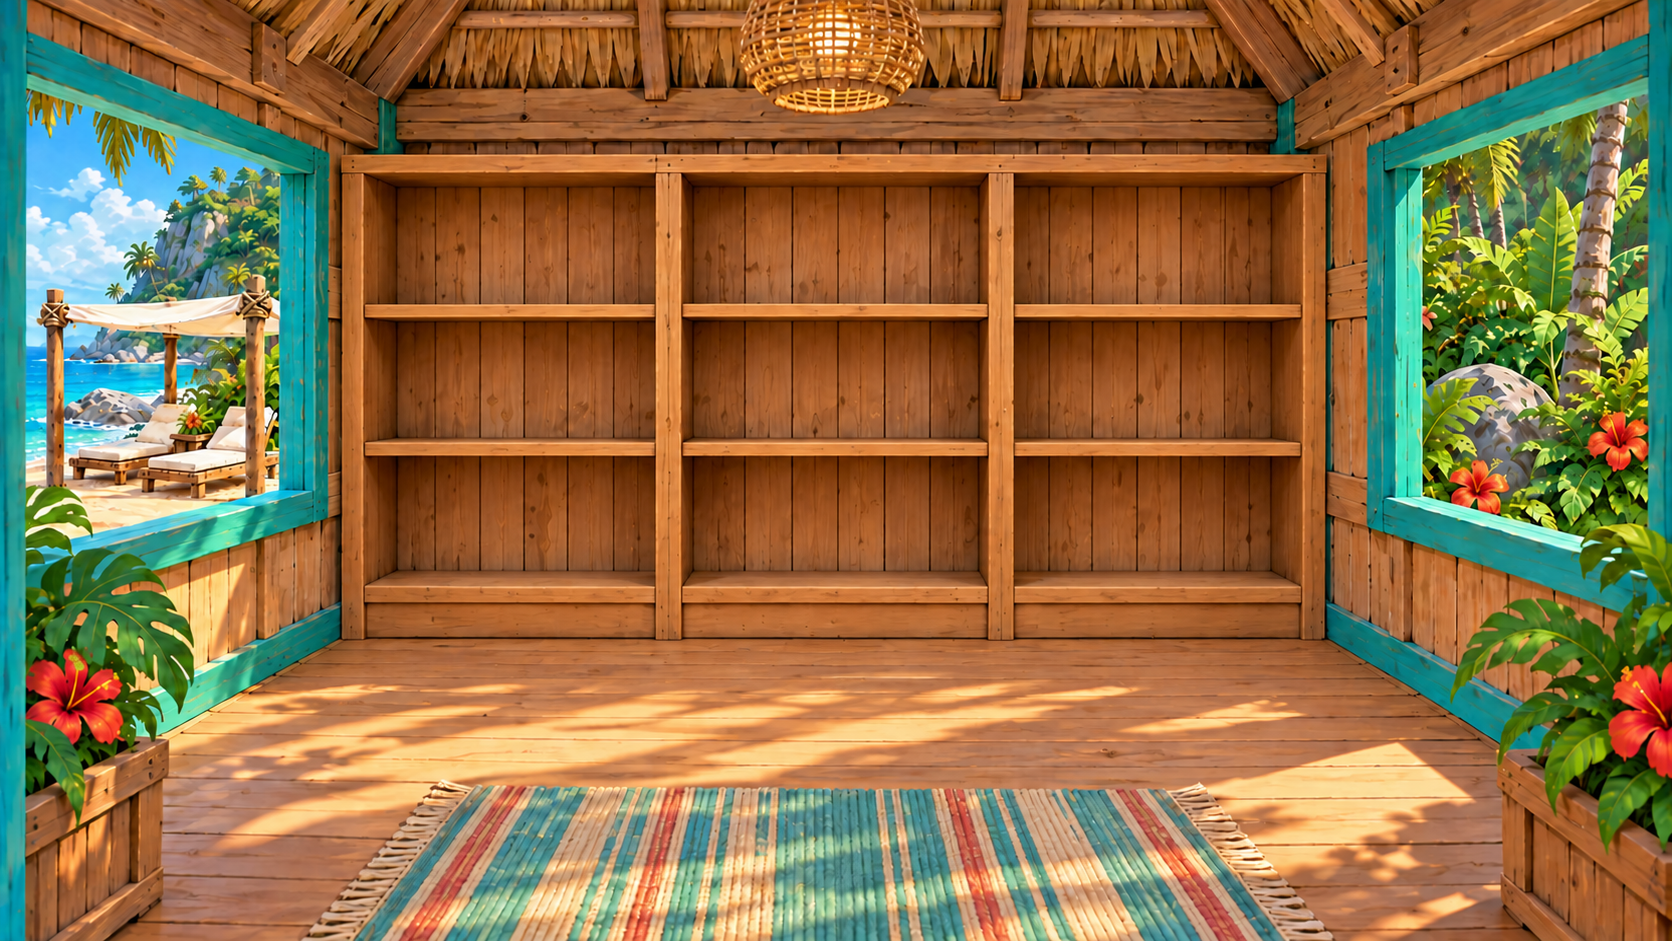
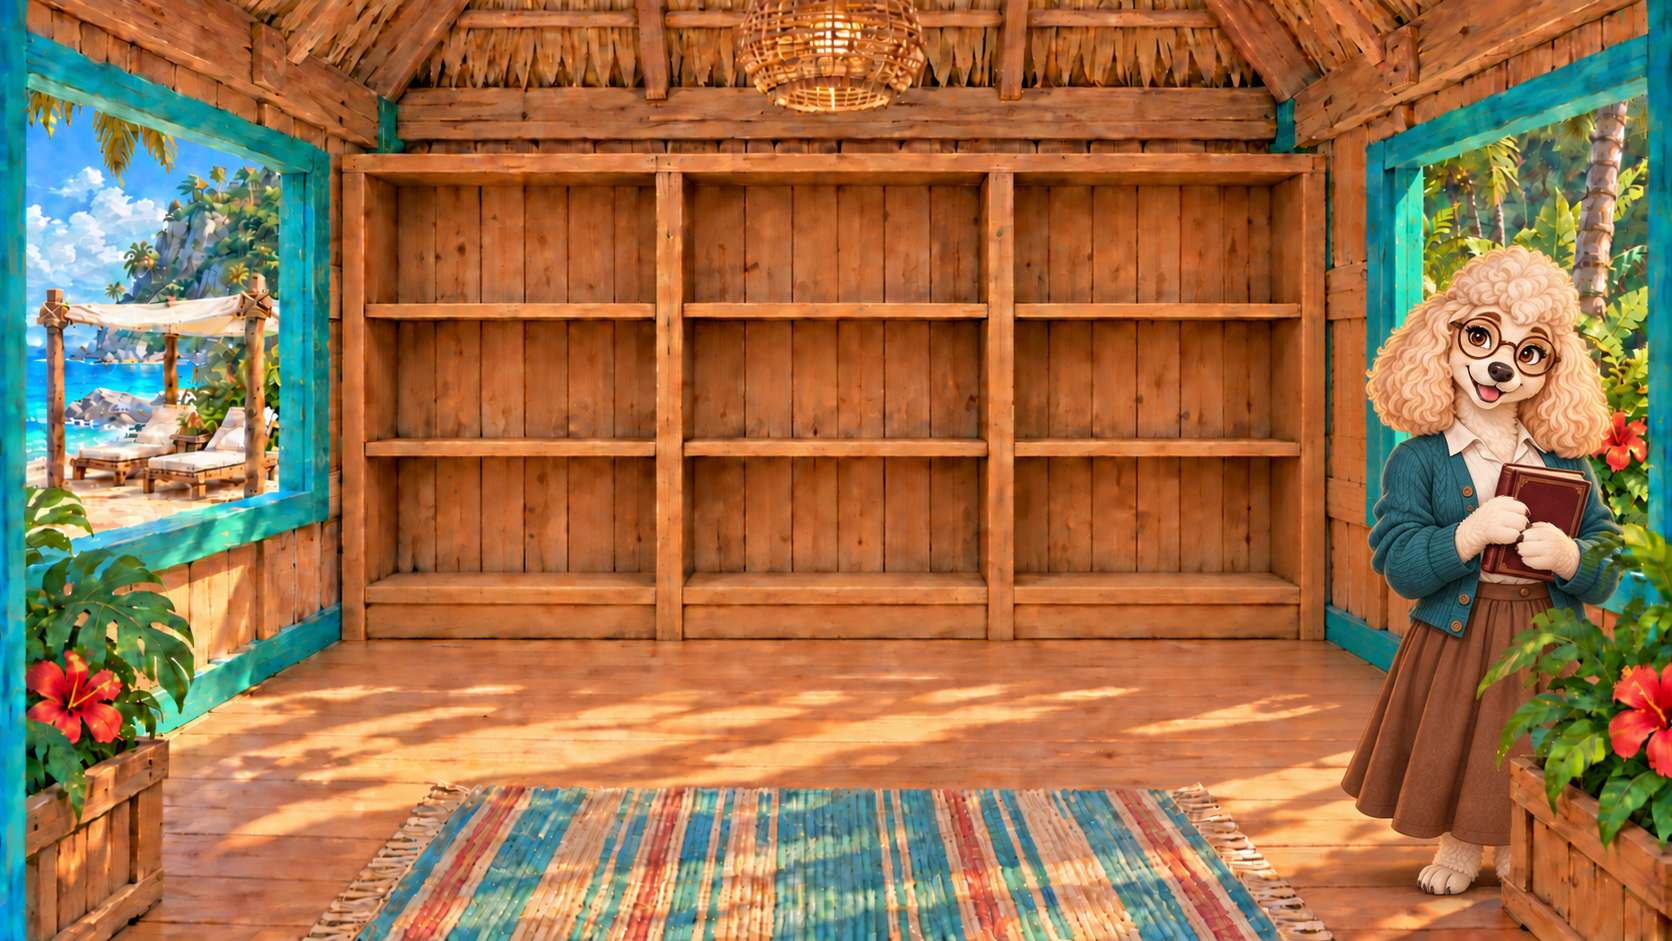
Бибилотека - правки

diff --git a/src/features/beach-library/ui/BeachLibrary.tsx b/src/features/beach-library/ui/BeachLibrary.tsx
@@ -4,6 +4,7 @@ import { useLibraryStore } from '../model/store'
 import { playOneShotSound } from '@/shared/lib/audio/playOneShotSound'
 import { FLOOR_BOOK_ASSETS } from '../model/bookAssets'
 import { PAGE_ASSETS } from '../model/pageAssets'
+import { finishLibrarianCleanup, talkToLibrarian } from '../model/librarianDialogue'
 import './BeachLibrary.css'
 
 export function BeachLibrary() {
@@ -12,12 +13,17 @@ export function BeachLibrary() {
   const [pointer, setPointer] = useState({ x: 50, y: 70 })
   const [category, setCategory] = useState<{ name: string; description: string } | null>(null)
   const [status, setStatus] = useState(
-    'Сверху — жанр, слева — направление. Поставь книгу на их пересечение.',
+    'Сверху — жанр, слева — сеттинг. Поставь книгу на их пересечение.',
   )
   const [flight, setFlight] = useState<{ x: number; y: number; page: string } | null>(null)
   const canvas = useRef<HTMLDivElement>(null)
   useEffect(() => {
     enter()
+    const library = useLibraryStore.getState()
+    if (!library.librarianIntroduced) {
+      library.introduceLibrarian()
+      talkToLibrarian()
+    }
   }, [enter])
   useEffect(() => {
     // Picking a floor book removes its focused button. Listen on window so Escape
@@ -42,6 +48,7 @@ export function BeachLibrary() {
   }
   const drop = (slot: number) => {
     if (held === null) return
+    const wasFinished = useLibraryStore.getState().finished
     const rewards = place(held, slot)
     if (!rewards) {
       setStatus('Не удалось поставить книгу. Выбери место на полке.')
@@ -53,20 +60,21 @@ export function BeachLibrary() {
       rewards.length
         ? `Найдены страницы! Добавлено в инвентарь: ${rewards.length}.`
         : correct
-          ? 'Верно! Жанр и направление совпадают.'
-          : 'Жанр или направление не совпадает. Книгу можно переставить.',
+          ? 'Верно! Жанр и сеттинг совпадают.'
+          : 'Жанр или сеттинг не совпадает. Книгу можно переставить.',
     )
     if (rewards.length) {
       const row = ROWS[Math.floor(slot / 5)]
       setFlight({ x: row.x + ((slot % 5) * row.width) / 5, y: row.y, page: rewards[0] })
     }
     setHeld(null)
+    if (!wasFinished && useLibraryStore.getState().finished) finishLibrarianCleanup()
   }
   return (
     <div
       ref={canvas}
       className="beach-library"
-      aria-label="Расстановка книг по жанрам и направлениям"
+      aria-label="Расстановка книг по жанрам и сеттингам"
       onPointerMove={(event) => {
         if (held === null) return
         const bounds = event.currentTarget.getBoundingClientRect()
@@ -95,7 +103,7 @@ export function BeachLibrary() {
           key={direction.name}
           className="beach-library__axis beach-library__axis--row"
           style={{ top: `${ROWS[index].y + ROWS[index].height / 2}%` }}
-          aria-label={`Направление: ${direction.name}`}
+          aria-label={`Сеттинг: ${direction.name}`}
           onClick={() => setCategory(direction)}
         >
           <span>

diff --git a/src/features/beach-library/model/librarianDialogue.ts b/src/features/beach-library/model/librarianDialogue.ts
@@ -1,0 +1,56 @@
+import { openDialogue, type Dialogue } from '@/features/dialogues'
+import librarianSprite from '@/shared/assets/features/dialogues/poodle-librarian.png'
+
+const speaker = { id: 'library-poodle', name: 'Библиотекарша', sprite: librarianSprite }
+
+export const librarianDialogue: Dialogue = {
+  id: 'library-cleanup',
+  restartOnOpen: true,
+  messages: [
+    {
+      id: 'help',
+      speaker,
+      emotion: 'sad',
+      text: 'Здравствуй! Кто-то устроил такой хаос в нашей библиотеке. Поможешь мне с уборкой?',
+    },
+    {
+      id: 'sorting',
+      speaker,
+      emotion: 'neutral',
+      text: 'Расставь книги по полкам: сверху указан жанр, а слева — сеттинг. Выбирай книгу и ставь её на их пересечение. Если ошибёшься, книгу можно переставить.',
+    },
+    {
+      id: 'hint',
+      speaker,
+      emotion: 'neutral',
+      text: 'Также я нашла какое-то странное письмо, отдам его когда мы закончим с уборкой, возможно ты поймешь что всё это значит.',
+    },
+    {
+      id: 'thanks',
+      speaker,
+      emotion: 'happy',
+      text: 'Спасибо за помощь! Если забудешь, как расставлять книги, подойди ко мне — я всё повторю.',
+    },
+  ],
+}
+
+export const librarianCompletionDialogue: Dialogue = {
+  id: 'library-cleanup-complete',
+  restartOnOpen: true,
+  messages: [
+    {
+      id: 'letter',
+      speaker,
+      emotion: 'happy',
+      text: 'Спасибо за помощь с уборкой! Вот письмо, о котором я говорила.',
+    },
+  ],
+}
+
+export function talkToLibrarian() {
+  openDialogue(librarianDialogue)
+}
+
+export function finishLibrarianCleanup() {
+  openDialogue(librarianCompletionDialogue)
+}

diff --git a/src/features/beach-library/model/config.ts b/src/features/beach-library/model/config.ts
@@ -107,9 +107,10 @@ export const BOOKS = BOOK_TITLES.flatMap((titles, row) =>
     direction: row % 3,
     title,
     // Fixed scatter and colours do not reveal either classification.
-    x: 12 + ((((row * 5 + index) * 17) % 45) % 15) * 4.9 + Math.sin(row * 13 + index * 5) * 0.5,
+    // Keep the right window clear, including rotated and hovered book edges.
+    x: 12 + ((((row * 5 + index) * 17) % 45) % 15) * 3.8 + Math.sin(row * 13 + index * 5) * 0.5,
     y:
-      68 +
+      62 +
       Math.floor((((row * 5 + index) * 17) % 45) / 15) * 8 +
       Math.cos(row * 7 + index * 9) * 0.8,
     angle: ((row * 29 + index * 17) % 55) - 27,
@@ -136,7 +137,7 @@ export function isBookCorrect(book: number, slot: number) {
 }
 // Текст CSS-страницы: редактируйте здесь.
 export const INSTRUCTION =
-  'Найденные страницы помогут открыть код. Положи лист с текстом под страницы из книг и совмещай их: сквозь отверстия видны подсказки. Используй их, чтобы разгадать код.'
+  'Привет, путешественник! Если ты уже закончил с уборкой, то ты нашел 4 страницы из разных книг. Как видишь, не понятно из какой книги каждая страница, т.к. на странице не хватает ключевых фраз или слов-подсказок. Используй особую страницу и попробуй наложить найденные страницы на неё, чтобы понять из какой книги каждая страница. Что делать с найденными названиями книг? Думаю это - ключ к сокровищу.'
 export const LETTER_PAGE = 'beach-library-letters'
 export const NOTE_PAGE = 'beach-library-note'
 export const pageId = (index: number) => `beach-library-page-${index}`

diff --git a/src/features/beach-library/model/store.ts b/src/features/beach-library/model/store.ts
@@ -26,10 +26,10 @@ function syncRewards(state: State) {
   inventory.items
     .filter((item) => item.id.startsWith('beach-library-') && !valid.has(item.id))
     .forEach((item) => inventory.removeItem(item.id, item.quantity ?? 1))
-  state.rewarded.forEach((page) => award(pageId(page), `Страница ${page + 1}`))
+  state.rewarded.forEach((page) => award(pageId(page), 'Страница из книги'))
   if (state.finished) {
     award(LETTER_PAGE, 'Лист с текстом', '🔤')
-    award(NOTE_PAGE, 'Записка библиотекаря', '📜')
+    award(NOTE_PAGE, 'Письмо из библиотеки', '📜')
   }
 }
 type State = {
@@ -37,6 +37,8 @@ type State = {
   rewarded: number[]
   discovered: number[]
   finished: boolean
+  librarianIntroduced: boolean
+  introduceLibrarian: () => void
   enter: () => void
   place: (book: number, slot: number) => string[] | null
 }
@@ -47,6 +49,8 @@ export const useLibraryStore = create<State>()(
       rewarded: [],
       discovered: [],
       finished: false,
+      librarianIntroduced: false,
+      introduceLibrarian: () => set({ librarianIntroduced: true }),
       enter: () => {
         if (completedCabinets(get().slots).length === 3) {
           set({ rewarded: [0, 1, 2, 3], finished: true })

diff --git a/src/features/location-navigation/ui/LocationNavigator.tsx b/src/features/location-navigation/ui/LocationNavigator.tsx
@@ -4,6 +4,7 @@ import { useWorldStore, type SceneSnapshot } from '../model/worldStore'
 import { playOneShotSound } from '@/shared/lib/audio/playOneShotSound'
 import { useDialogueStore } from '@/features/dialogues'
 import { BeachLibrary } from '@/features/beach-library/ui/BeachLibrary'
+import { talkToLibrarian } from '@/features/beach-library/model/librarianDialogue'
 import './LocationNavigator.css'
 
 type Props = {
@@ -135,6 +136,7 @@ export function LocationNavigator({
     if (item.type === 'game') onOpenGame(item.gameId)
     if (item.type === 'merchant') onMerchant()
     if (item.type === 'sailor') onSailor()
+    if (item.type === 'librarian') talkToLibrarian()
     if (item.type === 'map') onOpenMap()
     if (item.type === 'jungle-cave') onEnterJungleCave()
     if (item.type === 'barista') onBarista()

diff --git a/src/features/location-navigation/model/locations.ts b/src/features/location-navigation/model/locations.ts
@@ -37,6 +37,7 @@ export type LocationAction =
   | { type: 'game'; gameId: string }
   | { type: 'merchant' }
   | { type: 'sailor' }
+  | { type: 'librarian' }
   | { type: 'map' }
   | { type: 'jungle-cave' }
   | { type: 'barista' }
@@ -161,7 +162,15 @@ export const locations: Record<LocationId, LocationDefinition> = {
     title: 'Пляжная библиотека',
     image: library,
     ambienceVolume: 0.3,
-    hotspots: [],
+    hotspots: [
+      {
+        id: 'librarian',
+        label: 'Поговорить с библиотекаршей',
+        area: area(80, 26, 19, 70),
+        cursor: 'dialogue',
+        action: { type: 'librarian' },
+      },
+    ],
   },
   lounger: { ...base, id: 'lounger', title: 'Вид с лежака', image: lounger, hotspots: [] },
   'tourist-beach': {

diff --git a/src/widgets/game-hud/GameHud.tsx b/src/widgets/game-hud/GameHud.tsx
@@ -178,11 +178,12 @@ function InventorySlot({
   }
 
   if (item.id.startsWith('beach-library-')) {
+    const pageTitle = PAGE_ASSETS[item.id]?.title ?? item.name
     return (
       <button
         className="game-hud__slot game-hud__slot--button"
-        title={item.name}
-        aria-label={item.name}
+        title={pageTitle}
+        aria-label={pageTitle}
         onClick={() => togglePage(item.id)}
       >
         {PAGE_ASSETS[item.id]?.src ? (
@@ -194,7 +195,6 @@ function InventorySlot({
         ) : (
           <span>{item.icon}</span>
         )}
-        {item.id.includes('-page-') && <small>{Number(item.id.split('-').at(-1)) + 1}</small>}
       </button>
     )
   }

diff --git a/src/features/beach-library/model/pageAssets.ts b/src/features/beach-library/model/pageAssets.ts
@@ -10,8 +10,8 @@ export const PAGE_ASSETS: Record<string, { src?: string; title: string; descript
       pageId(index),
       {
         src,
-        title: `Страница ${index + 1}`,
-        description: `Страница из книги ${index + 1}. Наложи её на лист с текстом.`,
+        title: 'Страница из книги',
+        description: 'Наложи эту страницу на лист с текстом.',
       },
     ]),
   ),

diff --git a/src/features/beach-radio/model/quiz.ts b/src/features/beach-radio/model/quiz.ts
@@ -114,7 +114,7 @@ export const questions: QuizQuestion[] = [
     id: 'q15',
     text: 'Из какой игры отрывок стрима?',
     audioSrc: anotherCrabsTreasureStream,
-    answers: ['GTA: Vise City', 'Mixtape', 'Hades', 'Another Crab ́s Treasure'],
+    answers: ['GTA: Vice City', 'Mixtape', 'Hades', 'Another Crab ́s Treasure'],
     correctIndex: 3,
   },
   {

diff --git a/src/features/dialogues/model/store.ts b/src/features/dialogues/model/store.ts
@@ -18,6 +18,7 @@ type DialogueState = {
 }
 
 const getFirstUnreadIndex = (dialogue: Dialogue, readMessageIds: string[]) => {
+  if (dialogue.restartOnOpen) return 0
   const index = dialogue.messages.findIndex((message) => !readMessageIds.includes(message.id))
   return index === -1 ? 0 : index
 }

diff --git a/src/features/dialogues/model/types.ts b/src/features/dialogues/model/types.ts
@@ -29,6 +29,7 @@ export const getDialogueMessageSprite = (message: DialogueMessage) =>
 
 export type Dialogue = {
   id: string
+  restartOnOpen?: boolean
   messages: DialogueMessage[]
 }
 

diff --git a/src/features/beach-library/assets/librarian-prompt.md b/src/features/beach-library/assets/librarian-prompt.md
@@ -1,0 +1,23 @@
+# Library librarian background edit
+
+## Current upright librarian revision
+
+Tool: built-in image_gen. Style reference: `src/shared/assets/features/dialogues/aussie-barista.png`.
+Portrait output: `src/shared/assets/features/dialogues/poodle-librarian.png`, transparent PNG, connected through the dialogue speaker's `sprite`.
+
+Portrait prompt: Create a standalone waist-up game dialogue character with genuinely transparent alpha, matching the illustrated adult anthropomorphic female dog style and framing of aussie-barista. Cream curly female poodle with round brown spectacles, warm brown eyes and welcoming smile; ivory collared blouse, teal knitted cardigan with buttons, muted brown skirt. Both forepaws hold a burgundy book against her chest. Keep ears and paws in frame, detailed fur and warm rim light, no background or text.
+
+Scene prompt: Replace the existing four-legged dog with the exact poodle from the new portrait, full body standing upright on TWO hind paws, wearing the same blouse, cardigan and long brown skirt and holding the book. Position closer to the player beside the right foreground flower planter: feet at 88% height, head at 43%, whole character between 81% and 96% width. Keep all playable shelving clear. Preserve original 1672x941 framing, shelf geometry, windows, floor, rug and plants; remove the previous dog completely; no extra books or text.
+
+Final scene correction prompt: Shift the entire dressed upright poodle 85 pixels to the right without changing size or vertical position, restoring the wood and floor behind her. Keep the leftmost skirt and ear beyond x=1340 so playable shelving remains clear. Allow overlap with the right flower planter, keep face, book, clothes and both feet visible, and preserve the 1672x941 framing and shelf coordinates.
+
+## Earlier four-legged version
+
+Generated with the built-in image_gen tool. Target: `src/shared/assets/locations/tourist/library.png`.
+Style reference: the dog in `src/shared/assets/locations/tourist/shop.png`.
+
+Initial prompt: Preserve the tropical library's framing, empty shelves and their geometry, floor, windows, plants, rug and lighting. Add one friendly female cream curly poodle librarian with round glasses and a teal neck scarf, standing on all four paws by the right window. Match the game's polished cartoon dog style. Keep the dog clear of the playable shelves; add no books or text.
+
+After reducing the generated dog's size, the final correction prompt was:
+
+> Precise object edit. Move the existing small poodle 100 pixels horizontally to the RIGHT. Keep its size, design, glasses, scarf and vertical position exactly unchanged. Restore wood behind its old location. Its LEFTMOST ear must start at x=1360 pixels, completely beyond the right edge of the bookcase at x=1325. It is fine for its rightmost tail to overlap the foreground plants. Change nothing else. Preserve exact 1672x941 image dimensions, all shelf geometry, windows, floor and rug.
